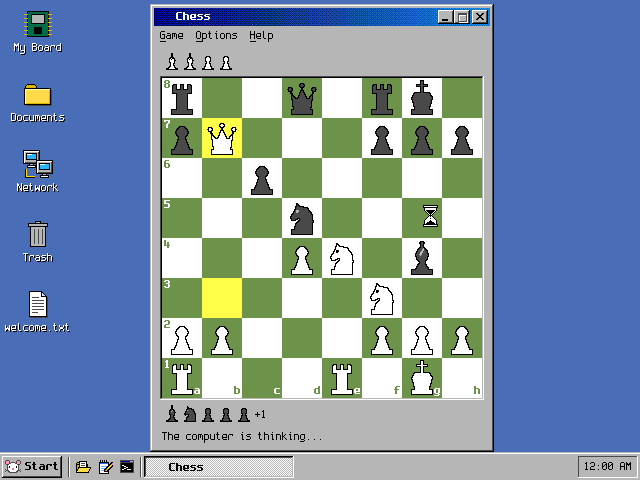
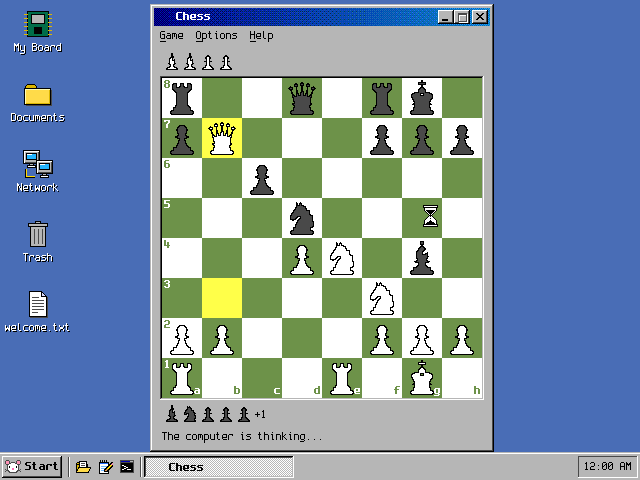
Chess mock-ups: sets of pieces as themes, and a third set, Contour
The owner's request: more detail in the outline, none inside, and the
plainer set kept as a theme the player can choose. Options > Pieces in the
mock-up, three sets in tools/mockup/chess_pieces.py, pictures of each.
Mock-ups only, drawn on the PC.

Claude-Session: https://claude.ai/code/session_011bRYU7SLiyBX64fjL1AwQX

diff --git a/tools/mockup/chess_pieces.py b/tools/mockup/chess_pieces.py
@@ -9,8 +9,9 @@ drawings serve both sides.
     python3 tools/mockup/chess_pieces.py header out.inc   the rows, for C++
     python3 tools/mockup/chess_pieces.py sheet out.png    a sheet to look at
 
-There are two sets: the first one drawn ("classic"), and "symbols", plainer,
-which the mock-up uses. The sheet shows both.
+There are three sets, which the game will offer as themes: Contour (the
+detail is all in the outline), Symbols (plain signs) and Classic (the first
+drawn, with inner lines). The sheet shows them side by side in that order.
 """
 import sys
 
@@ -45,6 +46,10 @@ class Pen:
 
     def cut(self, x0, y0, x1, y1):
         self.on.rectangle(self._p([(x0, y0), (x1, y1)]), fill=0)
+
+    def notch(self, *pts):
+        """Takes a bite out of the body: the outline follows it."""
+        self.on.polygon(self._p(pts), fill=0)
 
     def line(self, *pts, width=1.0):
         self.marks.line(self._p(pts), fill=255, width=max(1, round(width * self.k)), joint="curve")
@@ -179,8 +184,78 @@ def s_king(p):
 
 SYMBOLS = [("pawn", s_pawn), ("knight", s_knight), ("bishop", s_bishop), ("rook", s_rook),
            ("queen", s_queen), ("king", s_king)]
-SETS = {"classic": CLASSIC, "symbols": SYMBOLS}
-PIECES = SYMBOLS
+
+
+# The third set (the owner: "add more detail to the pieces by contour, not
+# by internal lines"): turned pieces seen against the light. Collars,
+# waists, a stepped foot, the bishop's cut and the knight's mane are all in
+# the outline; nothing is drawn inside.
+def step(p):
+    p.box(11, 29.5, 29, 33)
+    p.box(8.5, 32.5, 31.5, 36.5)
+
+
+def c_pawn(p):
+    p.oval(20, 12.3, 5.4)
+    p.oval(20, 19, 7.2, 1.9)
+    p.poly((17.5, 19), (22.5, 19), (24, 24), (27, 29.8), (13, 29.8), (16, 24))
+    step(p)
+
+
+def c_knight(p):
+    p.poly((12.5, 29.8), (13.5, 25.5), (16, 21.5), (19, 18.5), (16, 19.3), (13, 22), (10, 22.8),
+           (7.8, 21), (7.6, 18.5), (9.6, 15), (12, 11.5), (13.8, 8.5), (14.2, 4.2), (16.8, 7),
+           (18.6, 3.6), (20.6, 7.2), (24.2, 8.4), (24.6, 11.8), (28, 12.2), (28, 16.4),
+           (31, 17.2), (30.4, 22), (32, 23.4), (31.2, 29.8))
+    p.notch((7, 20.4), (10.6, 19.2), (10.6, 20.4))
+    step(p)
+
+
+def c_bishop(p):
+    p.oval(20, 4.8, 2.3)
+    p.poly((20, 6.3), (23.5, 9.8), (26, 14.5), (26.4, 18.5), (24.5, 22.5), (15.5, 22.5), (13.6, 18.5),
+           (14, 14.5), (16.5, 9.8))
+    p.notch((25, 10.4), (27.6, 12.4), (21.6, 16.6), (20.8, 15.2))
+    p.oval(20, 23.6, 7.6, 1.9)
+    p.poly((17.5, 24), (22.5, 24), (24, 27), (27, 29.8), (13, 29.8), (16, 27))
+    step(p)
+
+
+def c_rook(p):
+    p.box(10.5, 5.5, 29.5, 12)
+    p.cut(15, 4, 17.6, 8.6)
+    p.cut(22.4, 4, 25, 8.6)
+    p.poly((10.5, 12), (29.5, 12), (26, 15.5), (14, 15.5))
+    p.box(14.5, 15, 25.5, 26)
+    p.poly((14.5, 25), (25.5, 25), (28, 29.8), (12, 29.8))
+    step(p)
+
+
+def c_queen(p):
+    for x, y in ((8.6, 10.5), (14.2, 7.3), (20, 6.2), (25.8, 7.3), (31.4, 10.5)):
+        p.oval(x, y, 2.1)
+    p.poly((12, 26), (8.6, 11.5), (13.6, 19), (14.2, 8.5), (17.6, 18.3), (20, 7.5), (22.4, 18.3),
+           (25.8, 8.5), (26.4, 19), (31.4, 11.5), (28, 26))
+    p.oval(20, 26.3, 10.4, 1.9)
+    p.poly((13, 26.5), (27, 26.5), (28, 29.8), (12, 29.8))
+    step(p)
+
+
+def c_king(p):
+    p.box(18.8, 2.2, 21.2, 10.5)
+    p.box(16, 4.2, 24, 6.5)
+    p.oval(20, 12.6, 4.2, 3.4)
+    p.poly((13, 26), (9, 19.5), (9.4, 16.2), (12.5, 14.2), (16.5, 14.6), (20, 18), (23.5, 14.6),
+           (27.5, 14.2), (30.6, 16.2), (31, 19.5), (27, 26))
+    p.oval(20, 26.3, 9.6, 1.9)
+    p.poly((13, 26.5), (27, 26.5), (28, 29.8), (12, 29.8))
+    step(p)
+
+
+CONTOUR = [("pawn", c_pawn), ("knight", c_knight), ("bishop", c_bishop), ("rook", c_rook),
+           ("queen", c_queen), ("king", c_king)]
+# The sets the game will offer, by the names its menu shows.
+SETS = [("Contour", CONTOUR), ("Symbols", SYMBOLS), ("Classic", CLASSIC)]
 
 
 def rows(draw, size):
@@ -211,13 +286,18 @@ def rows(draw, size):
 def header(path):
     with open(path, "w") as f:
         f.write("// Made by tools/mockup/chess_pieces.py: do not edit.\n")
+        f.write("constexpr int kSets = %d;\n" % len(SETS))
+        f.write("constexpr const char *kSetNames[kSets] = {%s};\n" % ", ".join('"%s"' % n for n, _ in SETS))
         for size, tag in ((BIG, "Big"), (SMALL, "Small")):
             f.write("constexpr int k%sSize = %d;\n" % (tag, size))
-            f.write("constexpr const char *k%s[6][%d] = {\n" % (tag, size))
-            for name, draw in PIECES:
-                f.write("    { // %s\n" % name)
-                for row in rows(draw, size):
-                    f.write('        "%s",\n' % row)
+            f.write("constexpr const char *k%s[kSets][6][%d] = {\n" % (tag, size))
+            for set_name, pieces in SETS:
+                f.write("    { // %s\n" % set_name)
+                for name, draw in pieces:
+                    f.write("        { // %s\n" % name)
+                    for row in rows(draw, size):
+                        f.write('            "%s",\n' % row)
+                    f.write("        },\n")
                 f.write("    },\n")
             f.write("};\n")
 
@@ -228,10 +308,10 @@ def sheet(path):
     squares = [(255, 255, 255), (109, 146, 85), (255, 219, 170), (182, 146, 85)]
     white = {"X": (0, 0, 0), "o": (255, 255, 255), "-": (0, 0, 0)}
     black = {"X": (0, 0, 0), "o": (73, 73, 85), "-": (182, 182, 170)}
-    img = Image.new("RGB", (12 * BIG + 8, 8 * BIG + 2 * SMALL + 8), (182, 182, 170))
-    # The new set on the left, the first one on the right.
-    both = [(i * BIG, d) for i, (_, d) in enumerate(SYMBOLS)]
-    both += [(6 * BIG + 8 + i * BIG, d) for i, (_, d) in enumerate(CLASSIC)]
+    img = Image.new("RGB", (len(SETS) * (6 * BIG + 8) - 8, 8 * BIG + 2 * SMALL + 8), (182, 182, 170))
+    # The sets side by side, in the order of the game's menu.
+    both = [(n * (6 * BIG + 8) + i * BIG, d) for n, (_, pieces) in enumerate(SETS)
+            for i, (_, d) in enumerate(pieces)]
     for left, draw in both:
         big, small = rows(draw, BIG), rows(draw, SMALL)
         for band in range(8):

diff --git a/tools/mockup/chess_mockup.cpp b/tools/mockup/chess_mockup.cpp
@@ -1,6 +1,6 @@
 // Draws the proposed look of the chess game (backlog item 50) for the owner
 // to choose from: the board in both colour sets, the captured pieces, the
-// hourglass while the engine thinks, and the dialog before a game. It is a
+// hourglass while the engine thinks, the sets of pieces, and the dialog before a game. It is a
 // mock-up, not the game: there are no rules and no engine here, only fixed
 // positions. The windows, menus and controls are the system's real ones
 // (core/), running on the PC as in host/tests/render_scenes.cpp, so what is
@@ -51,6 +51,8 @@ constexpr Colours kBrown = {gfx::rgb(7, 6, 2), gfx::rgb(5, 4, 1), gfx::rgb(7, 7,
 constexpr gfx::Colour kWhiteInks[3] = {gfx::kBlack, gfx::kWhite, gfx::kBlack};
 constexpr gfx::Colour kBlackInks[3] = {gfx::kBlack, gfx::rgb(2, 2, 1), gfx::rgb(5, 5, 2)};
 
+int g_set = 0; // which set of pieces is in use (Options > Pieces)
+
 int piece_index(char letter)
 {
     const char *order = "pnbrqk";
@@ -62,7 +64,7 @@ int piece_index(char letter)
 void draw_piece(app::Canvas &c, int x, int y, char letter, bool big)
 {
     const int size = big ? kBigSize : kSmallSize;
-    const char *const *rows = big ? kBig[piece_index(letter)] : kSmall[piece_index(letter)];
+    const char *const *rows = big ? kBig[g_set][piece_index(letter)] : kSmall[g_set][piece_index(letter)];
     const gfx::Colour *inks = letter < 'a' ? kWhiteInks : kBlackInks;
     static uint8_t pixels[kBigSize * kBigSize];
     constexpr int kClear = 0xE3; // a pink no piece uses
@@ -102,8 +104,13 @@ public:
                            static_cast<uint8_t>(scene.colours == &kGreen ? wm::kMenuChecked : 0)};
         board_items_[1] = {"&Brown", nullptr, nullptr, nullptr, nullptr,
                            static_cast<uint8_t>(scene.colours == &kBrown ? wm::kMenuChecked : 0)};
+        for (int i = 0; i < kSets; i++) {
+            piece_items_[i] = {kSetNames[i], nullptr, nullptr, nullptr, nullptr,
+                               static_cast<uint8_t>(i == g_set ? wm::kMenuChecked : 0)};
+        }
         option_items_[0] = {"&Board", nullptr, nullptr, &board_menu_, nullptr, 0};
-        option_items_[1] = {"Show where a piece can &go", nullptr, nullptr, nullptr, nullptr, wm::kMenuChecked};
+        option_items_[1] = {"&Pieces", nullptr, nullptr, &pieces_menu_, nullptr, 0};
+        option_items_[2] = {"Show where a piece can &go", nullptr, nullptr, nullptr, nullptr, wm::kMenuChecked};
         help_items_[0] = {"&How to play", nullptr, nullptr, nullptr, nullptr, 0};
         help_items_[1] = {"&About Chess", nullptr, nullptr, nullptr, nullptr, 0};
         set_menu_bar(&bar_);
@@ -190,11 +197,13 @@ private:
     app::Plain status_;
     wm::MenuItem game_items_[5];
     wm::MenuItem board_items_[2];
-    wm::MenuItem option_items_[2];
+    wm::MenuItem piece_items_[kSets];
+    wm::MenuItem option_items_[3];
     wm::MenuItem help_items_[2];
     wm::Menu game_menu_ = {game_items_, 5};
     wm::Menu board_menu_ = {board_items_, 2};
-    wm::Menu options_ = {option_items_, 2};
+    wm::Menu pieces_menu_ = {piece_items_, kSets};
+    wm::Menu options_ = {option_items_, 3};
     wm::Menu help_ = {help_items_, 2};
     const wm::MenuBarEntry entries_[3] = {{"&Game", &game_menu_}, {"&Options", &options_}, {"&Help", &help_}};
     const wm::MenuBar bar_ = {entries_, 3};
@@ -336,6 +345,31 @@ int main(int argc, char **argv)
     save(folder + "/chess-2-brown-black-side.ppm", true);
     os::ui::close(board);
     desktop.update();
+
+    // 4. The same position with each of the other sets, and for the first
+    //    of them the Options menu open at Pieces.
+    for (g_set = 1; g_set < kSets; g_set++) {
+        board = open_board(thinking);
+        if (g_set == 1) {
+            desktop.key(wm::key::LeftAlt, true); // Alt+O, then P
+            desktop.key(0x12, true);
+            desktop.key(0x12, false);
+            desktop.key(wm::key::LeftAlt, false);
+            desktop.key(0x13, true);
+            desktop.key(0x13, false);
+        }
+        move_pointer(560, 300);
+        std::string name = kSetNames[g_set];
+        name[0] = static_cast<char>(name[0] | 0x20);
+        save(folder + "/chess-4-pieces-" + name + ".ppm", true);
+        desktop.key(wm::key::Escape, true);
+        desktop.key(wm::key::Escape, false);
+        desktop.key(wm::key::Escape, true);
+        desktop.key(wm::key::Escape, false);
+        os::ui::close(board);
+        desktop.update();
+    }
+    g_set = 0;
 
     // 3. The dialog before a game, over a board not yet played on.
     Scene fresh = {{}, true, &kGreen, "", "", 0, "", "", "", "Choose a game."};

diff --git a/docs/journal/2026-11-18-chess-design.md b/docs/journal/2026-11-18-chess-design.md
@@ -221,3 +221,31 @@ can be written and tested on the PC meanwhile, as their own piece of work.
   it goes: decided by the owner, as proposed.
 
 The three mock-ups were drawn again. PC only; nothing built.
+
+## Piece sets become themes (the same day)
+
+> add more detail to the pieces by contour, not by internal lines, but
+> record this as a theme, the app will have custom pieces to choose
+
+So the plain set stays, and the game is to offer sets of pieces to choose
+from, as it offers board colours: Options > Pieces. Decided by the owner.
+
+A third set was drawn, "Contour": turned pieces seen against the light.
+Collars, waists, a stepped foot, the cut in the bishop's mitre, the
+knight's ears and mane and the five points of the queen's crown are all in
+the outline, and nothing is drawn inside. The bishop's cut is a real bite
+out of the shape (`notch` in the script), so the outline follows it.
+
+The three sets, in the order of the menu: Contour, Symbols, Classic (the
+first one drawn, with inner lines). `chess-pieces.png` shows them side by
+side. The first three mock-ups use Contour; `chess-4-pieces-symbols.png`
+shows the Symbols set with the menu open at Pieces, and
+`chess-4-pieces-classic.png` the Classic set. Which set a new installation
+starts with, and whether Classic is kept at all, are the owner's to say.
+The set chosen would be kept in `chess.ini` with the rest.
+
+What a set costs: six drawings at two sizes, about 3 KB of the program's
+file if kept at two bits a pixel. The mock-up keeps them as text rows,
+which is larger.
+
+PC only; nothing built.

diff --git a/docs/DECISIONS.md b/docs/DECISIONS.md
@@ -429,9 +429,13 @@ in `docs/journal/2026-11-18-chess-design.md`. Nothing is built.
 - Decided by the owner (2026-11-18): a piece is moved by dragging it, or
   by a click on it and a click on where it goes. The captured pieces are
   evenly spaced.
-- The look: squares of 40 pixels, the pieces as drawn by
-  `tools/mockup/chess_pieces.py` (two sets: "symbols", plainer, asked
-  for by the owner after the first, "classic"; which stays is open), green with white squares or brown with
+- Decided by the owner (2026-11-18): the game offers sets of pieces to
+  choose from (Options > Pieces), as it offers board colours. Three are
+  drawn by `tools/mockup/chess_pieces.py`: Contour (the detail all in the
+  outline), Symbols (plain signs) and Classic (with inner lines). Open:
+  which one a new installation starts with, and whether all three stay.
+- The look: squares of 40 pixels,
+  green with white squares or brown with
   cream ones, the last move in yellow, dots where a picked piece can go,
   letters and numbers inside the squares, the board turned so the user's
   side is at the bottom.
